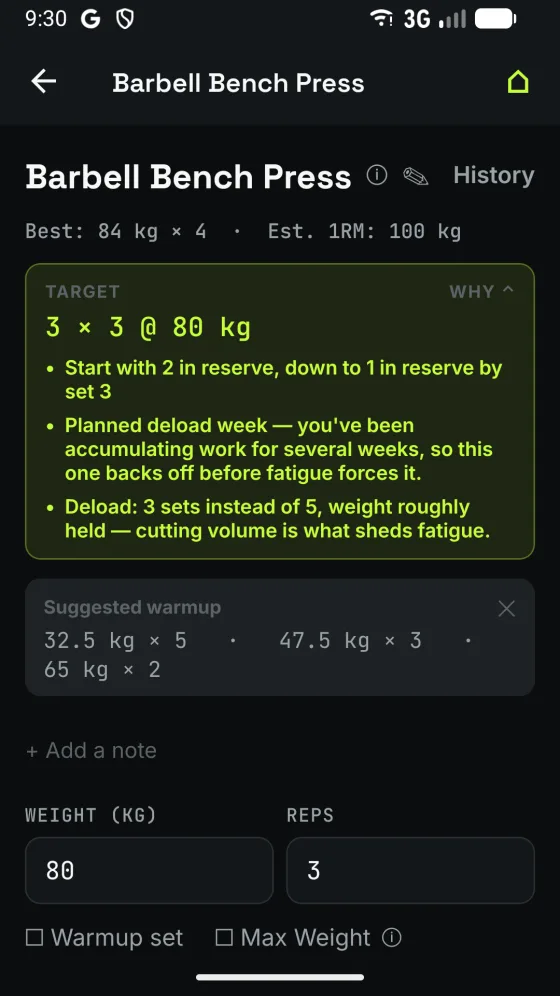
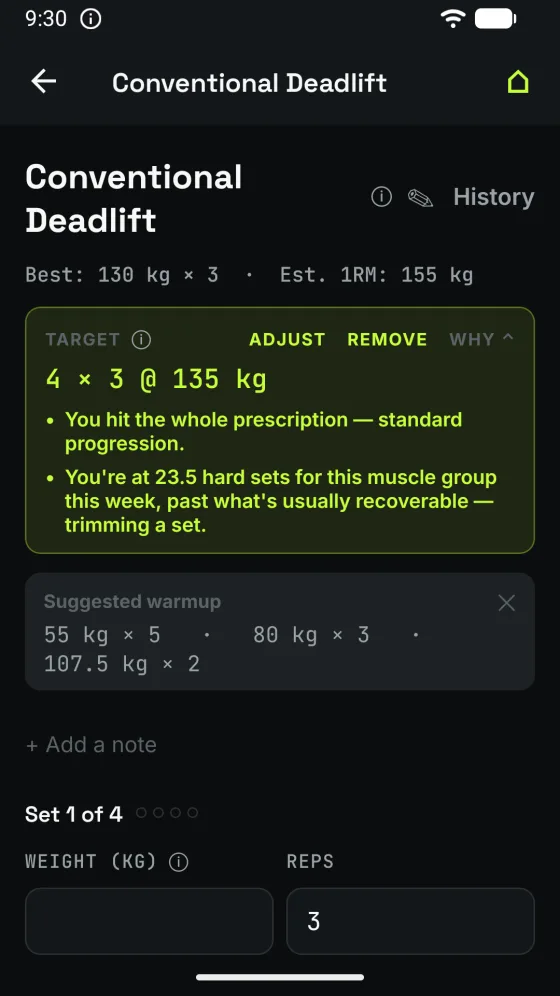
Show Pro in the shop window, and the app as it looks now
Adds a LiftMax Pro section, tagged coming soon: programs, MaxStats,
session insights and routine review, the one-off price model and why it
has no subscription, and what stays free, in the app's own words. No
price is named; the stores hold it.

Replaces the three September screenshots with the six current store
captures, which swipe sideways on a phone instead of stacking. Adds
in-page nav, the rest timer, and Drive/iCloud backup to the data section.

diff --git a/index.html b/index.html
@@ -110,6 +110,11 @@
 <header>
   <div class="wrap">
     <p class="wordmark">Lift<span>Max</span></p>
+    <nav class="top-nav" aria-label="On this page">
+      <a href="#how">How it works</a>
+      <a href="#pro">Pro</a>
+      <a href="#support">Support</a>
+    </nav>
   </div>
 </header>
 
@@ -127,6 +132,8 @@
         <img src="badges/app-store.svg" alt="Download on the App Store" width="120" height="40">
       </a>
     </div>
+    <p class="hero-note">Free to download, with no account and no ads.
+      <a href="#pro">LiftMax Pro</a>, a one-off unlock, is coming soon.</p>
 
     <!-- The prescription card, and with JavaScript the live demo of it.
          demo.js reveals [data-js-only] and takes over every [data-out-*] node;
@@ -220,7 +227,7 @@
     </div>
   </div>
 
-  <section>
+  <section id="how">
     <h2>How it decides</h2>
     <p class="lead">Every set you log updates an estimated one-rep max for that exercise.
       Prescriptions come off the trend across recent sessions rather than a single good day, so
@@ -277,20 +284,39 @@
 
   <section>
     <h2>What it looks like</h2>
+    <!-- Real captures from the app, seeded with two weeks of training by
+         docs/store-assets/seed-screenshot-db.test.ts in the app repo — the same
+         set the store listings use, minus the store panels' frame and headline.
+         Re-export from docs/store-assets/screenshots/ when those are retaken. -->
     <div class="shots">
       <figure>
         <img src="shots/01-prescription.webp" width="560" height="996" loading="lazy" decoding="async"
-             alt="The Barbell Bench Press screen. A target of 3 sets of 3 at 80 kg, under a heading that reads WHY, with three reasons given: start with 2 in reserve and work down to 1 by set 3; a planned deload week, because work has been accumulating for several weeks; and 3 sets instead of 5 with the weight roughly held, since cutting volume is what sheds fatigue. Below it a suggested warm-up of 32.5 kg for 5, 47.5 kg for 3 and 65 kg for 2, then the weight and reps to log.">
+             alt="The Conventional Deadlift screen during a workout. Best set 130 kg for 3, estimated one-rep max 155 kg. The target reads 4 sets of 3 at 135 kg, with two reasons under it: you hit the whole prescription, so standard progression; and you are at 23.5 hard sets for this muscle group this week, past what is usually recoverable, so it trims a set. Below it a suggested warm-up of 55 kg for 5, 80 kg for 3 and 107.5 kg for 2, then the weight and reps for set 1 of 4.">
         <figcaption>The prescription, and why it is that.</figcaption>
       </figure>
       <figure>
-        <img src="shots/02-strength-trend.webp" width="560" height="996" loading="lazy" decoding="async"
-             alt="The strength trend screen: an estimated one-rep max of 100 kg with the run of sessions it was built from — 90, 92.5, 95, 95, 97.5, 100 — a predicted 8-rep max of 77.5 kg, and a strength-level bar placing the lift at Intermediate, 22.5 kg short of Advanced.">
-        <figcaption>The trend behind it, and where the lift sits.</figcaption>
+        <img src="shots/02-workout-summary.webp" width="560" height="996" loading="lazy" decoding="async"
+             alt="The workout summary for Push Day: 1 hour 4 minutes, 6 lifts, 22 working sets, 95% of the plan completed (22 of 23 planned sets), and new bests on Overhead Press at 52.5 kg for 4 and Barbell Incline Bench Press at 67.5 kg for 6.">
+        <figcaption>What a session ends on.</figcaption>
       </figure>
       <figure>
-        <img src="shots/04-exercise-library.webp" width="560" height="996" loading="lazy" decoding="async"
-             alt="The exercise library: a search box, filter chips for each body part, a button to add a custom exercise, and a list of exercises each showing its muscle group, with a how-to guide and an edit control beside it.">
+        <img src="shots/03-muscle-map.webp" width="560" height="996" loading="lazy" decoding="async"
+             alt="Front and back body diagrams with the muscles a push session trained shaded by how much work each got: chest 12 sets, shoulders 11.5, triceps 9.5, core 2.">
+        <figcaption>What you actually trained.</figcaption>
+      </figure>
+      <figure>
+        <img src="shots/04-strength-level.webp" width="560" height="996" loading="lazy" decoding="async"
+             alt="The Barbell Bench Press page: estimated one-rep max 97.5 kg, built from 95, 95 and 97.5, a predicted 8-rep max of 77.5 kg, and a strength-level bar from Beginner to Elite placing the lift at Intermediate, 25 kg short of Advanced.">
+        <figcaption>Where each lift stands.</figcaption>
+      </figure>
+      <figure>
+        <img src="shots/05-home.webp" width="560" height="996" loading="lazy" decoding="async"
+             alt="The home screen: this week's sets by day, today's 22 sets across 6 lifts, 3 sessions and 10 new bests this month, a Start Workout button and a button to add a past workout.">
+        <figcaption>Your week, and today's session.</figcaption>
+      </figure>
+      <figure>
+        <img src="shots/06-exercise-library.webp" width="560" height="996" loading="lazy" decoding="async"
+             alt="The exercise library: a search box, filter chips for each body part, sort by name, times trained or body part, a button to add a custom exercise, and a list of exercises each showing its muscle group, with a how-to guide and an edit control beside it.">
         <figcaption>Over 200 exercises, plus your own.</figcaption>
       </figure>
     </div>
@@ -335,6 +361,7 @@
     <ul>
       <li><strong>Warm-up sets calculated</strong> before your first working set — a three-rung
         ramp onto the same plate grid, and nothing at all below a load that doesn't need one.</li>
+      <li><strong>A rest timer between sets</strong>, with an alert when it's up.</li>
       <li><strong>Over 200 exercises</strong>, with your own additions alongside them, and a
         how-to guide on every one.</li>
       <li><strong>18 routine templates</strong> — body parts, splits, or built around the
@@ -347,13 +374,89 @@
     </ul>
   </section>
 
+  <!-- LiftMax Pro. Written from the liftmax_pro branch before it ships, so
+       every claim here is something that branch already does — the feature
+       names and the free-forever line are the app's own words (PREMIUM_COPY in
+       src/premium/PremiumGate.tsx, and the paywall), and docs/premium.md is
+       the source of truth for what is in the bundle and what stays free.
+
+       Deliberately no price: the stores hold the figure and it is not public
+       until the product is live. When it ships, drop the "Coming soon" tag
+       and the hero line that repeats it; there is no other date-sensitive
+       wording in here. -->
+  <section id="pro" class="pro">
+    <p class="pro-tag">Coming soon</p>
+    <h2>LiftMax <span>Pro</span></h2>
+    <p class="lead">The free app tells you what to lift today. Pro plans the weeks ahead and
+      reads back what they did.</p>
+    <p class="lead">One payment, yours for good — no subscription. That is possible because
+      there is no server behind LiftMax: one more lifter costs nothing to run, so there is no
+      monthly bill to pass on. Buy it once and it unlocks on every device signed in to the same
+      Google Play or App Store account.</p>
+
+    <div class="pro-grid">
+      <div class="pro-card pro-card-wide">
+        <p class="pro-h">Programs</p>
+        <p class="pro-b">Run a multi-week block with every session scheduled ahead of time,
+          deload weeks included, instead of picking a routine each day. Build one yourself, or
+          answer a few questions — goal, days a week, session length, equipment, anything to
+          work around — and have it drafted for you, then change any part of it.</p>
+        <ul class="pro-points">
+          <li>Sessions are in order, not on dates — miss a week and the block waits for you
+            rather than breaking.</li>
+          <li>A check-in while it runs, and a review at the end of what the block actually
+            moved.</li>
+          <li>Finished blocks stay in Past programs, ready to run again.</li>
+        </ul>
+      </div>
+
+      <div class="pro-card pro-card-wide">
+        <p class="pro-h">MaxStats</p>
+        <p class="pro-b">Your training, read back in plain words. It opens on a verdict — how
+          many lifts are going up, and anything that needs a look — then goes as deep as you
+          want: hard sets per muscle each week against what is enough and what is too much, a
+          muscle heat map, records, consistency, how close you came to your targets, and when
+          you're on course to hit a goal.</p>
+        <p class="pro-b pro-quiet">Over any date range, and on every exercise, routine, program
+          and workout.</p>
+      </div>
+
+      <div class="pro-card">
+        <p class="pro-h">Session insights</p>
+        <p class="pro-b">While you lift: what today's fatigue is doing to each target, and which
+          sets are carrying the session.</p>
+        <p class="pro-b pro-quiet">On any workout, running or finished — and it fills in as
+          you go.</p>
+      </div>
+
+      <div class="pro-card">
+        <p class="pro-h">Routine review</p>
+        <p class="pro-b">A routine read against your own training — which lifts are moving and
+          which have stalled, what to change in the sets and reps, a swap for a lift that has
+          stopped, and which parts of a muscle the routine never reaches.</p>
+      </div>
+    </div>
+
+    <div class="free-note">
+      <p class="pro-h">What stays free</p>
+      <p class="pro-b">Logging, history, progression, backup and export stay free forever. So
+        does everything the free app already does — the reps-in-reserve calibration, your
+        personal rep-max curve, strength standards, warm-ups, the rest timer — and there is no
+        limit on exercises, routines or workouts. Pro adds to the app; it never takes anything
+        away from it.</p>
+    </div>
+  </section>
+
   <section>
     <h2>Your data stays yours</h2>
     <p class="lead">No account. No sign-up. No ads.</p>
     <p class="lead">Everything you enter — your profile, workouts, routines and history — is
       stored in a database on your own device. There is no server holding your training history,
-      because there is no server. Back up and restore to storage you control, and erase
-      everything from within the app whenever you want.</p>
+      because there is no server. Back up to your own Google Drive on Android or iCloud on
+      iPhone, so a lost or replaced phone doesn't mean starting over — encrypted if you want,
+      and only if you switch it on. Erase everything from within the app whenever you want.</p>
+    <p class="lead">Pro doesn't change any of that. The purchase is held by Google or Apple
+      against your store account; the app only asks whether that account owns it.</p>
     <p class="lead">Anonymous crash reports are sent to help fix bugs. They contain technical
       diagnostics only — never your training data. Details are in the
       <a href="privacy/">privacy policy</a>.</p>
@@ -378,6 +481,7 @@
     <nav>
       <a href="https://play.google.com/store/apps/details?id=com.liftmax.android">Google Play</a>
       <a href="https://apps.apple.com/app/liftmax/id6809827285">App Store</a>
+      <a href="#pro">LiftMax Pro</a>
       <a href="privacy/">Privacy policy</a>
       <a href="mailto:jackroberts-dev@outlook.com">Support</a>
     </nav>

diff --git a/styles.css b/styles.css
@@ -83,6 +83,18 @@ header {
 /* On the inner pages the wordmark is the way back out. */
 a.wordmark { text-decoration: none; color: var(--text); }
 
+/* The homepage's header carries in-page links beside the wordmark. */
+header .wrap {
+  display: flex;
+  align-items: baseline;
+  justify-content: space-between;
+  gap: 1rem;
+  flex-wrap: wrap;
+}
+.top-nav { display: flex; gap: 1.25rem; font-size: 0.9rem; }
+.top-nav a { color: var(--text-secondary); text-decoration: none; }
+.top-nav a:hover { color: var(--text); }
+
 /* ── Hero ───────────────────────────────────────────────── */
 .hero { padding: 4.5rem 0 3.5rem; }
 .hero h1 {
@@ -97,6 +109,13 @@ a.wordmark { text-decoration: none; color: var(--text); }
   margin: 0 0 1.25rem;
   max-width: 34rem;
 }
+
+.hero .hero-note {
+  font-size: 0.9rem;
+  color: var(--text-muted);
+  margin: 0;
+}
+.hero-note a { color: var(--text-secondary); }
 
 /* ── The prescription card ──────────────────────────────── */
 /* A concrete example beats a paragraph describing one. This is the
@@ -535,9 +554,71 @@ h3 {
   border-color: var(--accent-border);
 }
 
+/* ── LiftMax Pro ────────────────────────────────────────────────── */
+/* Pro gets --data, not the accent: the accent is the reward signal (see
+   the top of this file), and a product being on sale is not one. Cyan is
+   the palette's "analysis" colour, which is most of what Pro is. */
+.pro h2 span { color: var(--data); }
+.pro-tag {
+  display: inline-block;
+  font-size: 0.68rem;
+  text-transform: uppercase;
+  letter-spacing: 0.09em;
+  font-weight: 600;
+  color: var(--data);
+  border: 1px solid var(--data);
+  border-radius: 999px;
+  padding: 0.1rem 0.6rem;
+  margin: 0 0 0.9rem;
+}
+.pro-grid {
+  display: grid;
+  grid-template-columns: repeat(2, minmax(0, 1fr));
+  gap: 1rem;
+  margin: 1.75rem 0 1rem;
+}
+.pro-card {
+  background: var(--surface);
+  border: 1px solid var(--border);
+  border-radius: 14px;
+  padding: 1.25rem;
+}
+/* Programs (the headline) and MaxStats (the most to say) take a full row
+   each; the two in-context features share the last one. */
+.pro-card-wide { grid-column: 1 / -1; }
+.pro-h {
+  font-family: 'Space Grotesk', system-ui, sans-serif;
+  font-weight: 700;
+  font-size: 1.05rem;
+  margin: 0 0 0.5rem;
+}
+.pro-b { font-size: 0.9rem; color: var(--text-secondary); margin: 0 0 0.75rem; }
+.pro-b:last-child { margin-bottom: 0; }
+.pro-quiet { font-size: 0.82rem; color: var(--text-muted); }
+.pro-points { margin: 0; font-size: 0.88rem; }
+.pro-points li { margin-bottom: 0.35rem; }
+.free-note {
+  border: 1px dashed var(--border);
+  border-radius: 14px;
+  padding: 1.25rem;
+}
+
 /* ── Narrow screens ─────────────────────────────────────────────── */
 @media (max-width: 46rem) {
-  .shots { grid-template-columns: 1fr; gap: 1.75rem; max-width: 22rem; }
+  /* Six stacked full-width phones is a lot of scrolling; a sideways strip
+     keeps the set to one screen's height, with the next shot peeking in to
+     say there is more. Bleeds to the screen edge, padded back to the gutter. */
+  .shots {
+    display: flex;
+    gap: 1rem;
+    overflow-x: auto;
+    scroll-snap-type: x mandatory;
+    margin: 0 -1.5rem;
+    padding: 0 1.5rem 0.5rem;
+    scroll-padding: 0 1.5rem;
+  }
+  .shots figure { flex: 0 0 62%; max-width: 15rem; scroll-snap-align: start; }
+  .pro-grid { grid-template-columns: 1fr; }
   .insets { grid-template-columns: 1fr; }
   .demo-working { grid-template-columns: 1fr; }
 }

diff --git a/README.md b/README.md
@@ -10,7 +10,7 @@ privacy/index.html  privacy policy  →  https://liftmax.co.uk/privacy/
 404.html            served for any missing path
 styles.css          shared by all three
 demo.js             the homepage's live prescription demo — see below
-shots/              app screenshots, webp, from the app repo's store assets
+shots/              app screenshots, webp, from the app repo's store assets — see below
 CNAME               the custom domain; deleting it unsets it in Pages
 favicon.png         196×196, from the app repo's assets/
 icon.png            1024×1024, used as the og:image
@@ -73,6 +73,22 @@ why the two sites had to merge rather than sit side by side.
   `prescribeForTarget` uses `roundToPlate`; `floorToPlate` is only for weights
   *displayed* as estimates. The site said "rounded down" in two places and was
   wrong about it; if that wording comes back, check the engine first.
+
+- **The screenshots are the store set, unframed.** `shots/` is
+  `docs/store-assets/screenshots/` from the app repo (the Android captures,
+  not the `panels/` with the headline frame), resized to 560×996 webp:
+  `cwebp -q 82 -resize 560 996 <capture>.png -o shots/<name>.webp`. Each
+  `alt` describes what that capture actually shows, numbers included, so a
+  retake means rewriting the alt text too.
+- **The Pro section describes an unreleased build.** It was written from
+  the app's `liftmax_pro` branch before Pro went on sale, and carries a
+  "Coming soon" tag plus a matching line under the store badges. When Pro
+  ships, remove both. It names no price on purpose — the stores hold it.
+  `docs/premium.md` in the app repo is the source of truth for what is in
+  the bundle and what stays free; if that list moves, this section has to.
+  Before Pro ships, the privacy policy also wants a line on purchases
+  (handled by Google and Apple; the app only learns whether the account owns
+  Pro) — and `docs/play-data-safety.md` checked against it.
 
 ## DNS
 
